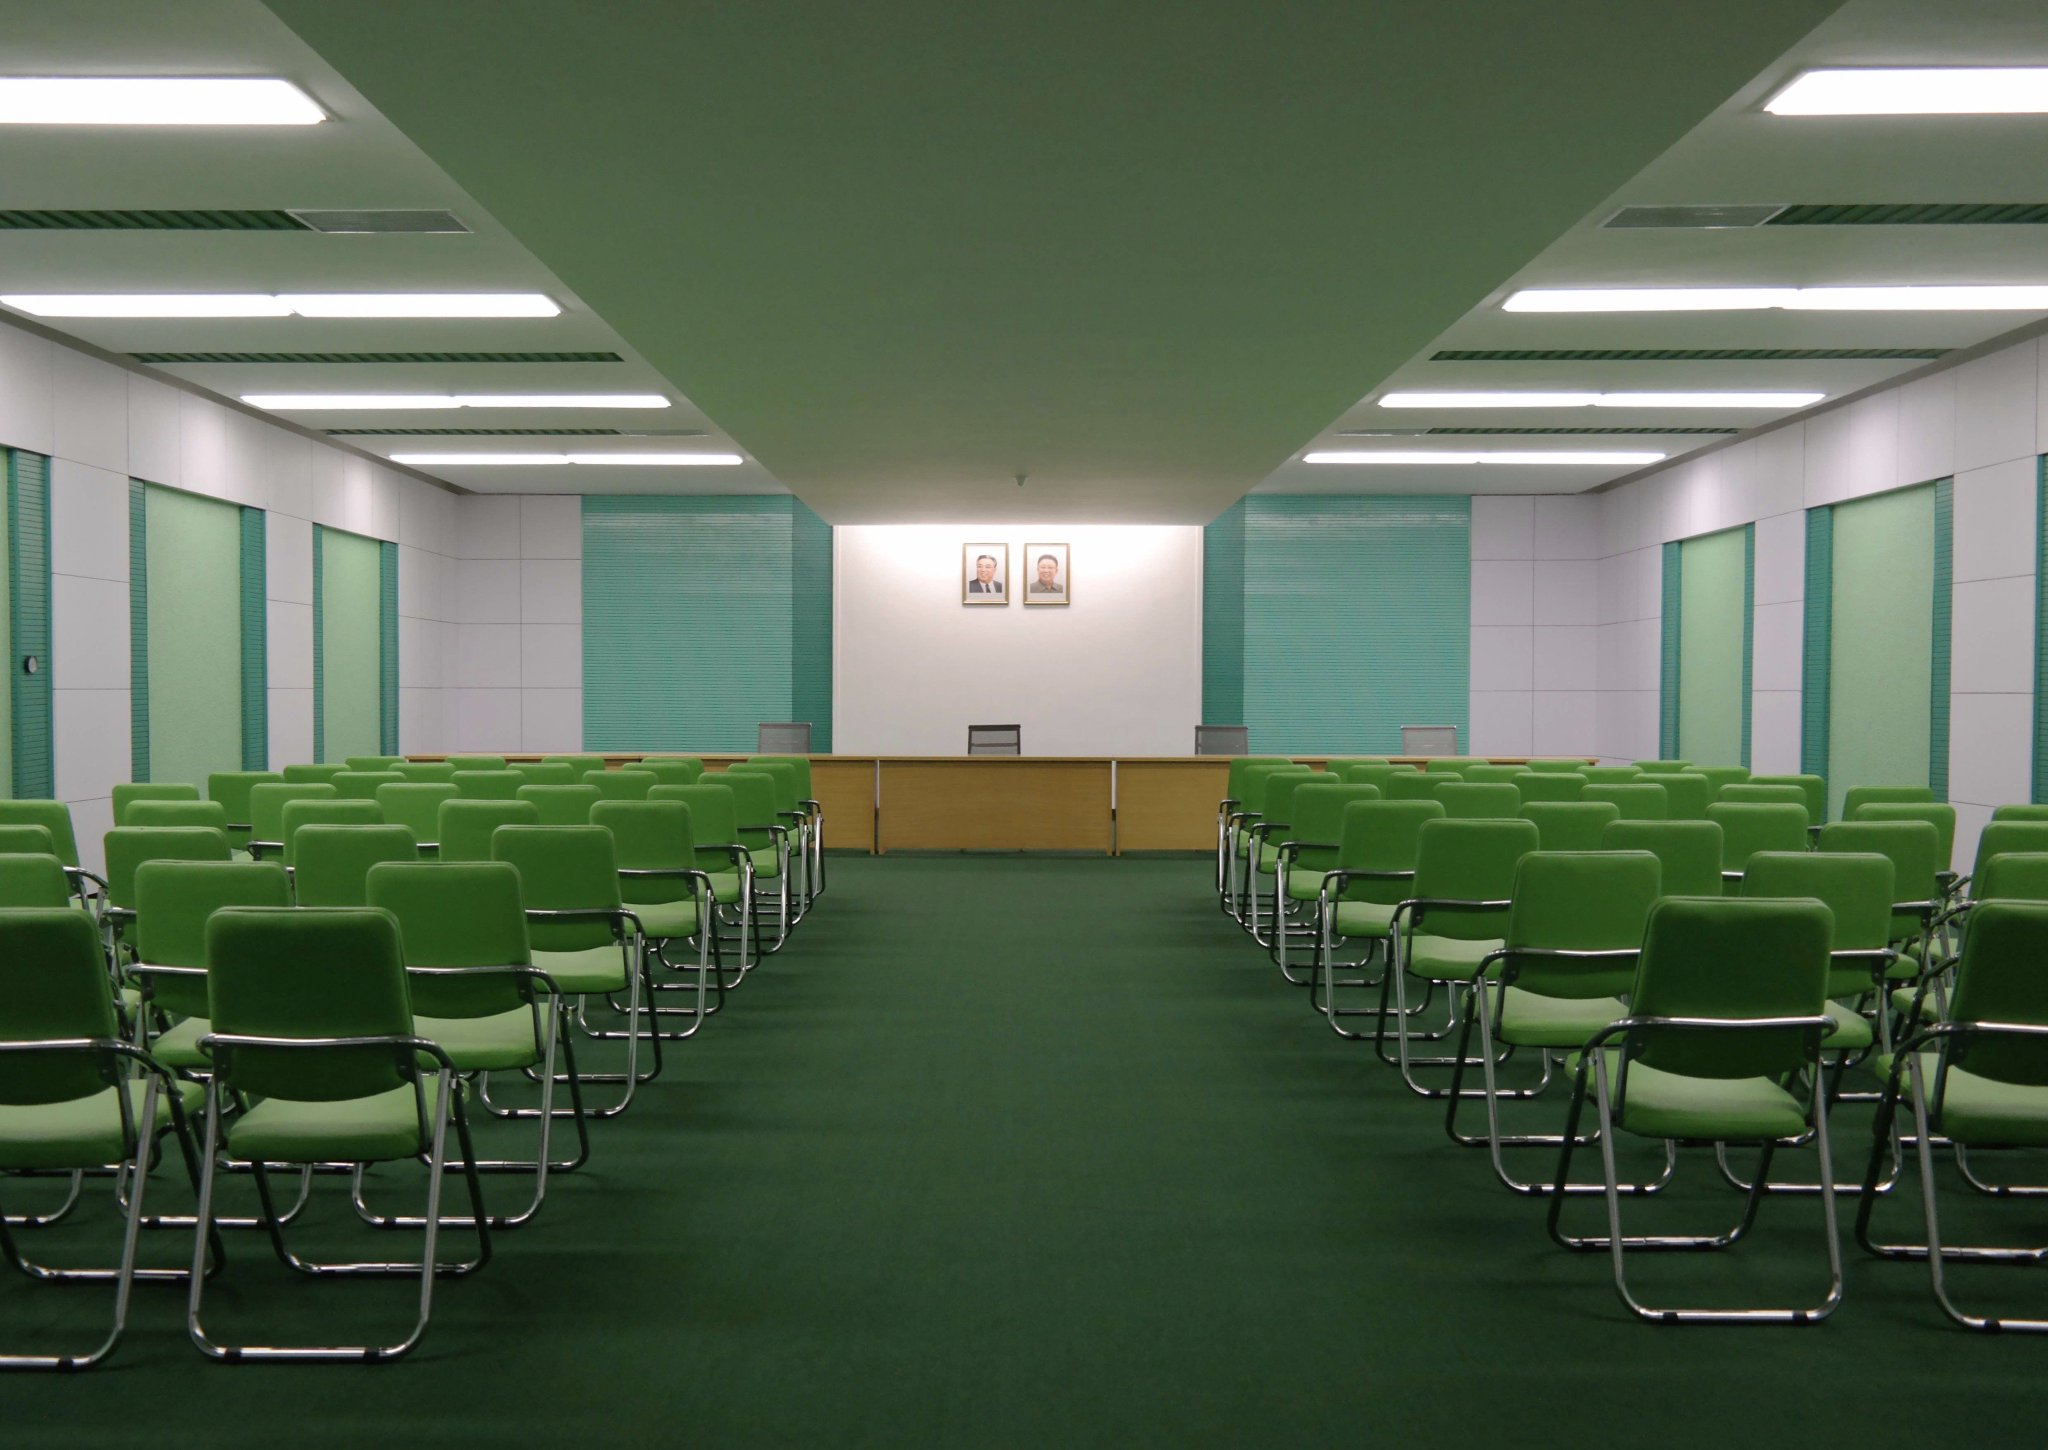
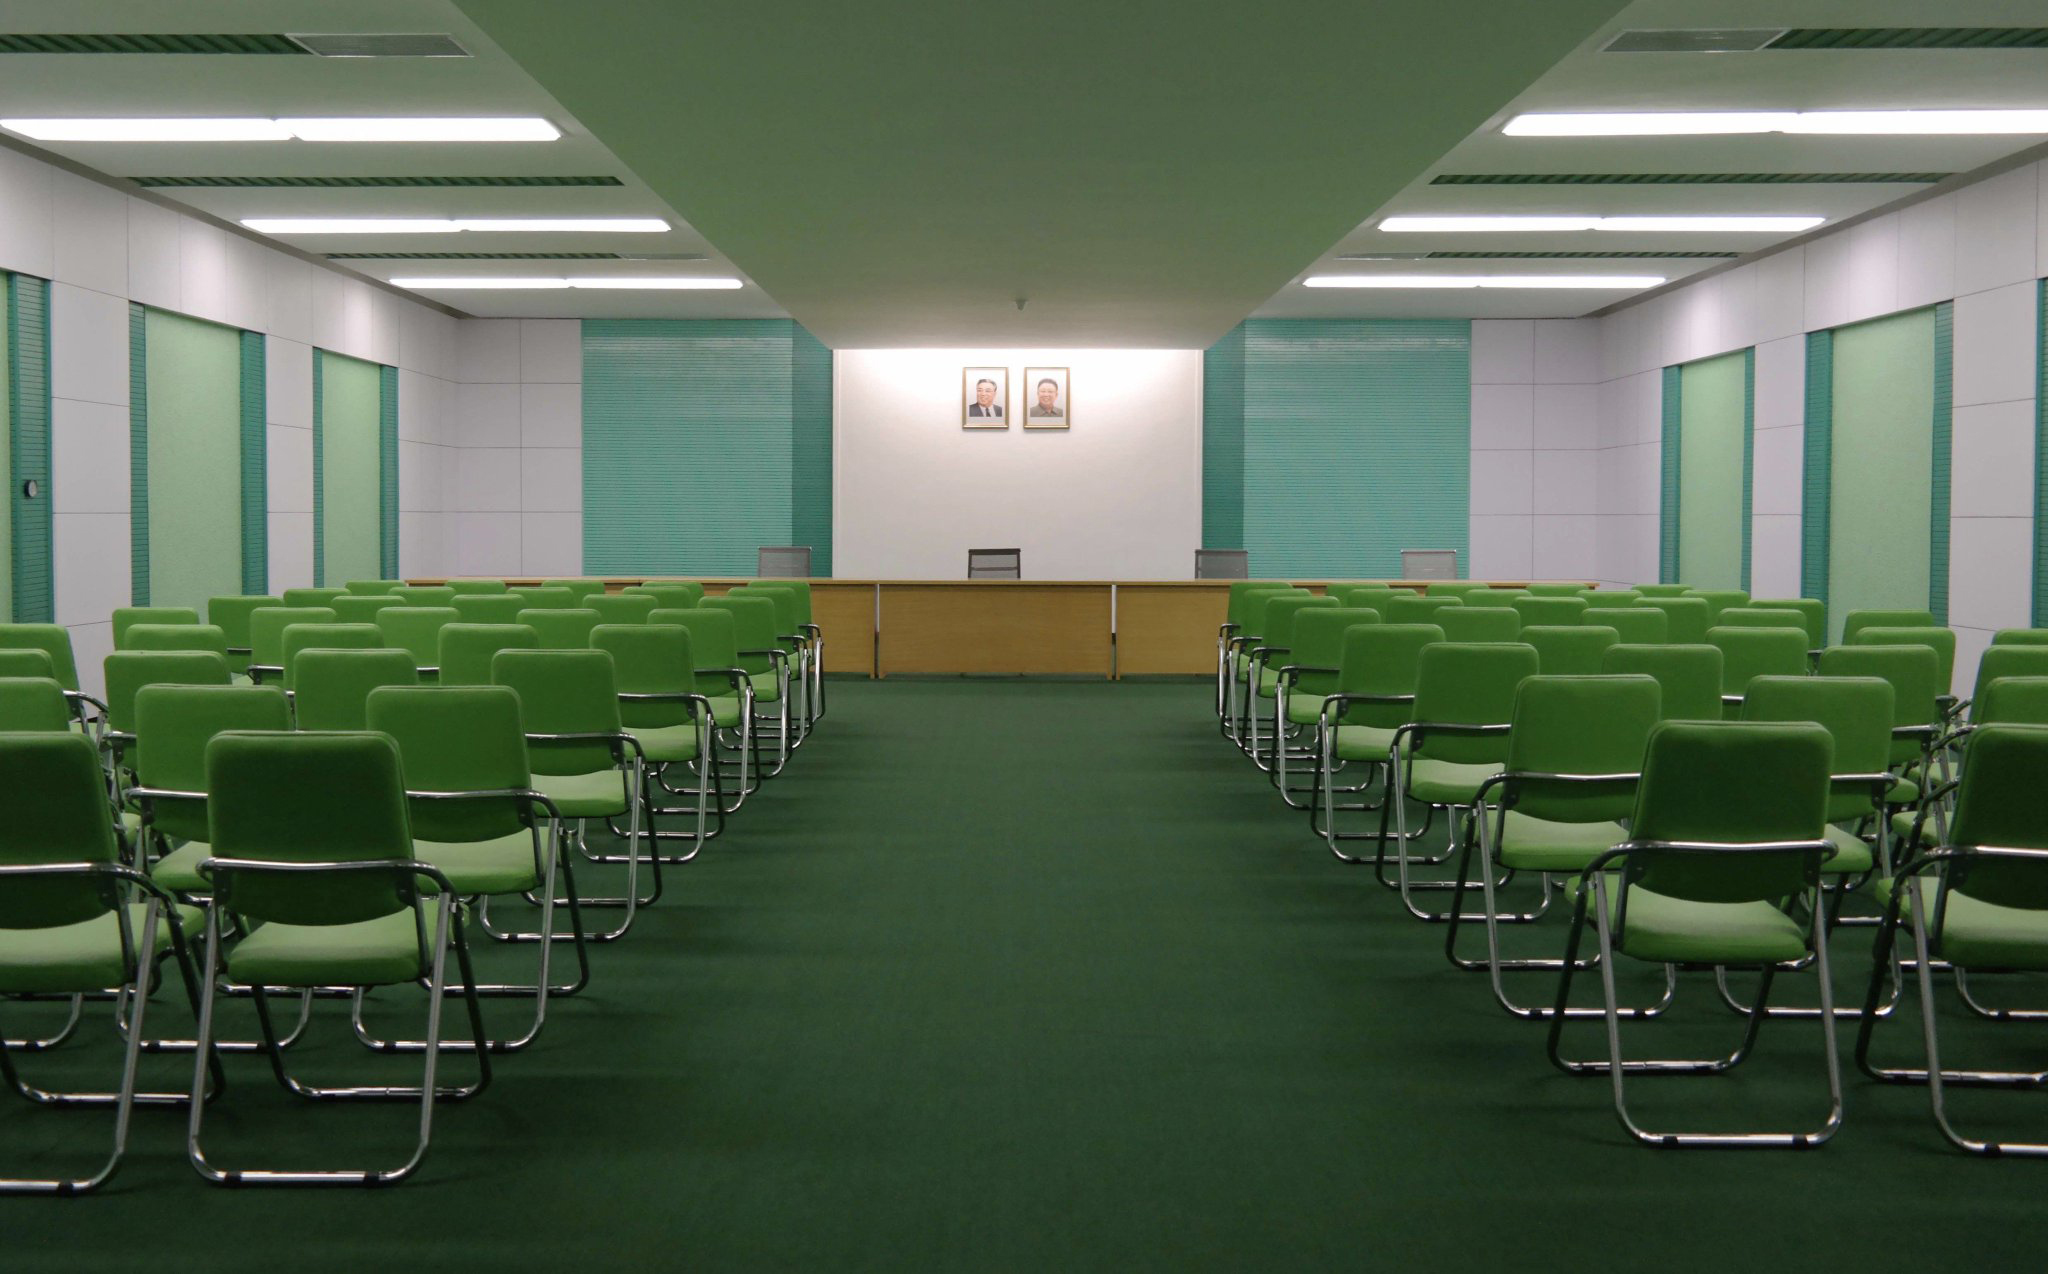
StartPage 3
Initial

diff --git a/script/script.js b/script/script.js
@@ -1,0 +1,25 @@
+var button = document.getElementById("button-version-1");
+var spacingBoxOne = document.getElementById("spacing-box-version-1");
+var spacingBoxTwo = document.getElementById("spacing-box-version-2");
+
+function formatUrl(url) {
+	var regexPattern = /\"|\'|\)/g;
+	return url.split('/').pop().replace(regexPattern,'');
+}
+
+button.onclick = function() {
+	var currentBackgroundUrl = window.getComputedStyle(document.body).getPropertyValue('background-image');
+	var currentBackground = formatUrl(currentBackgroundUrl).toUpperCase();
+	switch (currentBackground) {
+		case "NK1.JPG":
+			document.body.style.backgroundImage = "url('img/NK2.jpg')";
+			document.getElementById("spacing-box-version-1").id = "spacing-box-version-2";
+			document.getElementById("button-version-1").id = "button-version-2";
+		break;
+		case "NK2.JPG":
+			document.body.style.backgroundImage = "url('img/NK1.jpg')";
+			document.getElementById("spacing-box-version-2").id = "spacing-box-version-1";
+			document.getElementById("button-version-2").id = "button-version-1";
+		break;
+	}
+}

diff --git a/css/css.css b/css/css.css
@@ -6,7 +6,33 @@ html, body {
 }
 
 body {
-	background-color: #ddeeff;
-	background-image: url("../img/NK.jpg");
+	background: #ddeeff url("../img/NK1.jpg");
 	background-size: 100% auto;
+}
+
+#spacing-box-version-1 {
+	height: 150px;
+	width: 100%;
+}
+
+#spacing-box-version-2 {
+	height: 41px;
+	margin-top: 225px;
+}
+
+#button-version-1 {
+	display: inline-block;
+	height: 61px;
+	transform: skew(6deg) rotate(6deg);
+	margin-left: 185px;
+	margin-top: 47px;
+	opacity: 0;
+	width: 47px;
+}
+
+#button-version-2 {
+	height: 41px;
+	margin-left: 593px;
+	opacity: 0;
+	width: 30px;
 }

diff --git a/index.html b/index.html
@@ -6,6 +6,9 @@
 	<link rel="stylesheet" type="text/css" href="css/css.css">
 </head>
 <body>
-	
+	<div id="spacing-box-version-1">
+		<button id="button-version-1" class="button">X</button>
+	</div>
+	<script src="script/script.js"></script>
 </body>
 </html>
